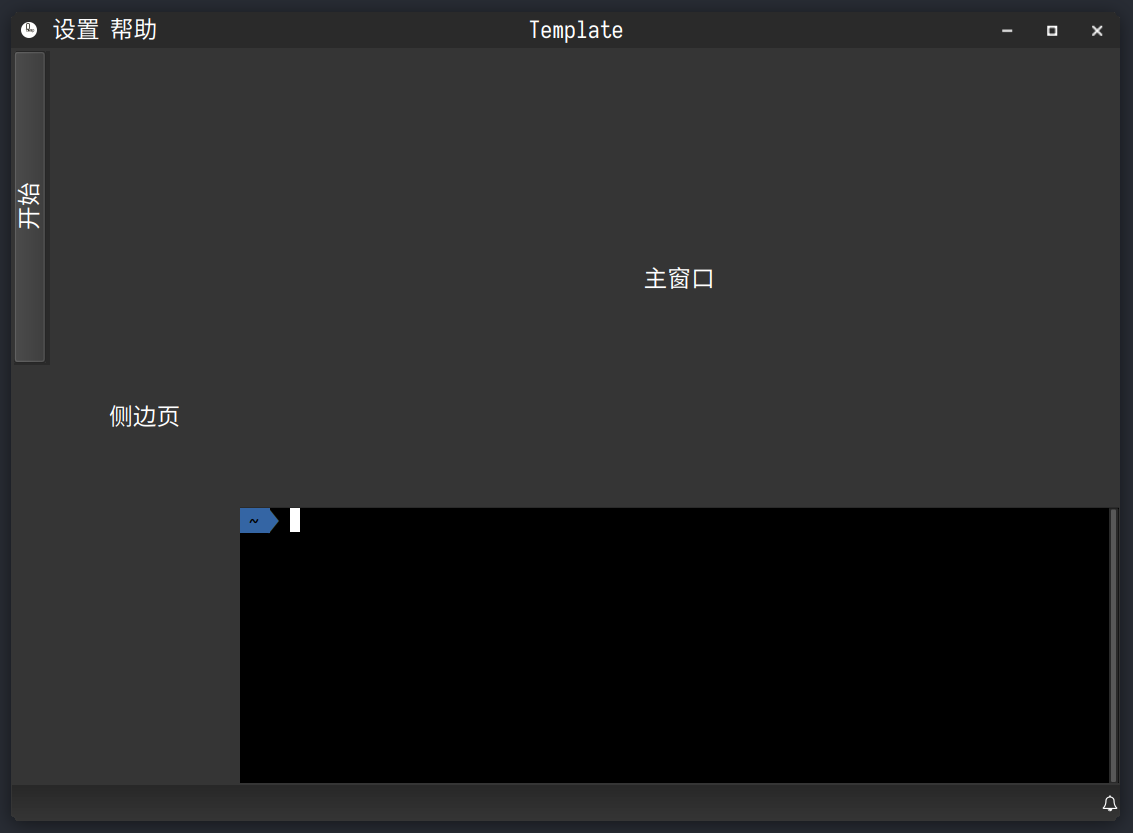
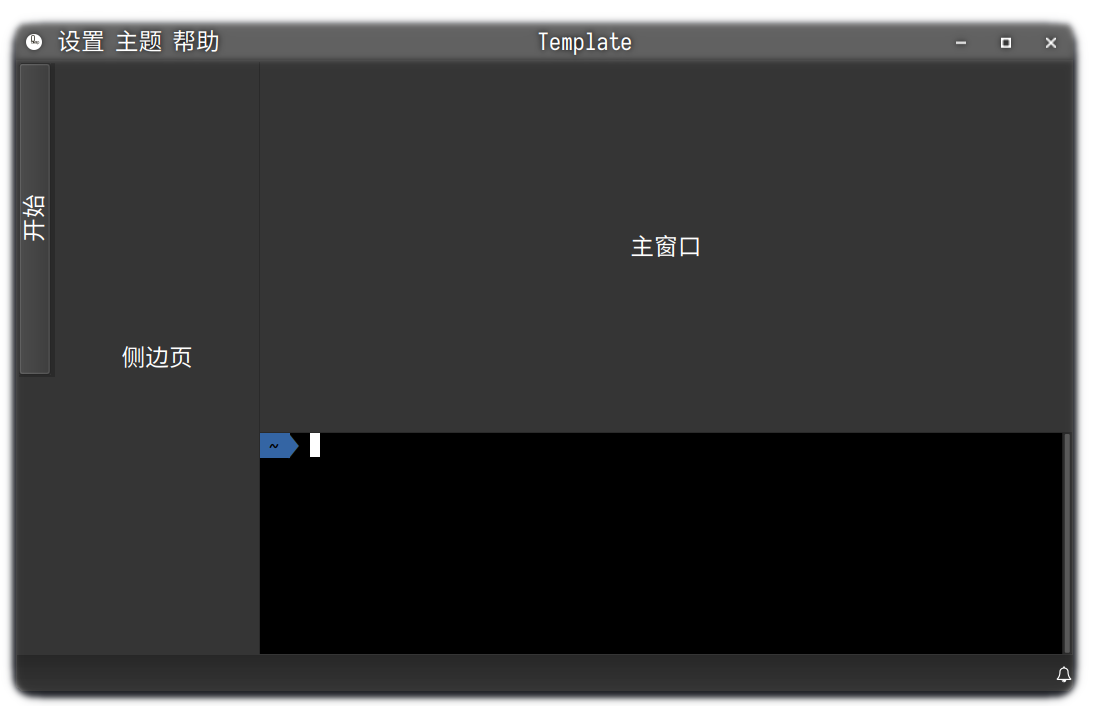
Add Theme

Changed region(s): [[0.0, 0.0, 1.0, 1.0], [0.5579, 0.3116, 0.6509, 0.3739], [0.093, 0.4674, 0.186, 0.5297]]

diff --git a/src/mainwindow.cpp b/src/mainwindow.cpp
@@ -9,12 +9,14 @@
 #include "misc.h"
 #include "mainwindow.h"
 #include "globalsetting.h"
+#include "qfonticon.h"
 #include "filedialog.h"
 #include "ui_mainwindow.h"
 
-CentralWidget::CentralWidget(QWidget *parent)
+CentralWidget::CentralWidget(bool isDark, QWidget *parent)
     : QMainWindow(parent)
     , ui(new Ui::CentralWidget)
+    , isDarkTheme(isDark)
 {
     ui->setupUi(this);
 
@@ -259,9 +261,43 @@ void CentralWidget::checkCloseEvent(QCloseEvent *event) {
     }
 }
 
+void CentralWidget::on_lightThemeAction_triggered()
+{
+    if(!isDarkTheme) return;
+    isDarkTheme = false;
+    qGoodStateHolder->setCurrentThemeDark(isDarkTheme);
+    if(themeColorEnable) QGoodWindow::setAppCustomTheme(isDarkTheme,themeColor);
+    QFontIcon::instance()->setColor(Qt::black);
+    term->setColorScheme("QuardCRT Light");
+}
+
+void CentralWidget::on_darkThemeAction_triggered()
+{
+    if(isDarkTheme) return;
+    isDarkTheme = true;
+    qGoodStateHolder->setCurrentThemeDark(isDarkTheme);
+    if(themeColorEnable) QGoodWindow::setAppCustomTheme(isDarkTheme,themeColor);
+    QFontIcon::instance()->setColor(Qt::white);
+    term->setColorScheme("QuardCRT");
+}
+
+void CentralWidget::on_themeColorAction_triggered()
+{
+    QColor color = QColorDialog::getColor(themeColor, this, tr("Select color"));
+    if (color.isValid()) {
+        themeColor = color;
+        themeColorEnable = true;
+        qGoodStateHolder->setCurrentThemeDark(isDarkTheme);
+        QGoodWindow::setAppCustomTheme(isDarkTheme,themeColor);
+    } else {
+        themeColorEnable = false;
+        qGoodStateHolder->setCurrentThemeDark(isDarkTheme);
+    }
+}
+
 MainWindow::MainWindow(bool isDark, QWidget *parent)
     : QGoodWindow(parent) {
-    m_central_widget = new CentralWidget(this);
+    m_central_widget = new CentralWidget(isDark,this);
     m_central_widget->setWindowFlags(Qt::Widget);
 
     m_good_central_widget = new QGoodCentralWidget(this);

diff --git a/src/mainwindow.h b/src/mainwindow.h
@@ -7,6 +7,7 @@
 #include <QWidget>
 #include <QPushButton>
 #include <QHBoxLayout>
+#include <QColor>
 
 #include "qtermwidget.h"
 #include "ptyqt.h"
@@ -26,12 +27,17 @@ class CentralWidget : public QMainWindow
     Q_OBJECT
 
 public:
-    CentralWidget(QWidget *parent = nullptr);
+    CentralWidget(bool isDark = true, QWidget *parent = nullptr);
     ~CentralWidget();
     void checkCloseEvent(QCloseEvent *event);
 
 protected:
     void contextMenuEvent(QContextMenuEvent *event);
+
+private slots:
+    void on_lightThemeAction_triggered();
+    void on_darkThemeAction_triggered();
+    void on_themeColorAction_triggered();
 
 private:
     Ui::CentralWidget *ui;
@@ -43,6 +49,9 @@ private:
     QPushButton *sidePushButton;
     QHBoxLayout *sideHboxLayout;
     NotifictionWidget *notifictionWidget;
+    bool isDarkTheme;
+    QColor themeColor;
+    bool themeColorEnable = false;
 };  
 
 

diff --git a/README.md b/README.md
@@ -1,9 +1,12 @@
 # Quard的Qt应用程序初始模板
 
-本模板是为了方便Quard在Qt Creator中创建新的Qt应用程序项目而设计的。它包含了基本的无边框窗口、左侧边页、主页面、底部终端、右侧通知中心，顶部与标题栏结合的菜单栏等基本功能。本模板支持跨平台，可以在Windows、Linux、MacOS等系统上运行。需要Qt 6.5.0及以上版本。
+本模板是为了方便Quard创建新的Qt应用程序项目而设计的。它包含了基本的无边框窗口、左侧边页、主页面、底部终端、右侧通知中心，亮/暗色主题切换，顶部与标题栏结合的菜单栏等基本功能。本模板支持跨平台，可以在Windows、Linux、MacOS等系统上运行。需要Qt 6.5.0及以上版本。
 
 ![1](./doc/1.png)
 
 ![2](./doc/2.png)
 
 ![3](./doc/3.png)
+
+![4](./doc/4.png)
+
